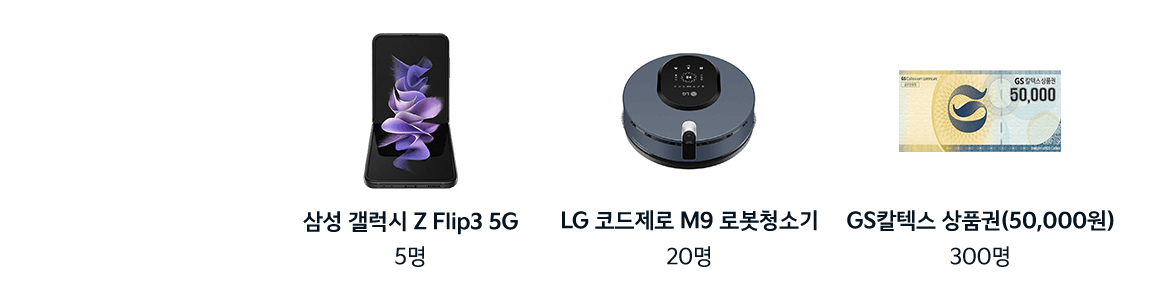
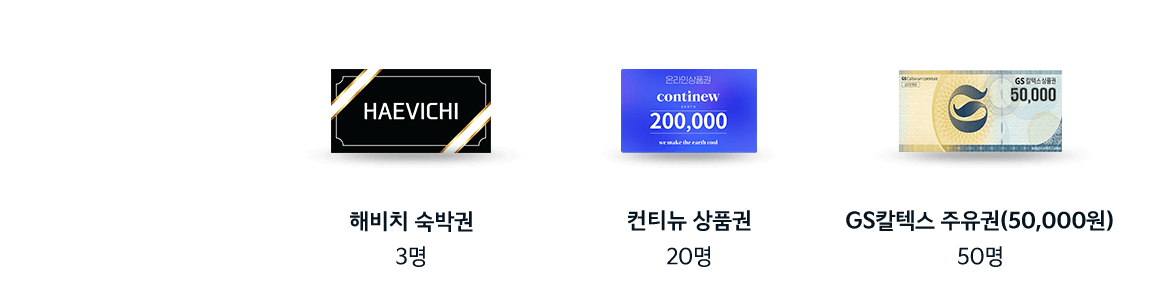
니로 2021.12.13수정건

diff --git a/views/html/index.html b/views/html/index.html
@@ -446,7 +446,8 @@
                     <span class="modal-prize-label fw700 fs24">즉석 당첨 경품 결과</span>
                     <h3 class="modal-hd-tit fc-white">축하합니다!</h3>
                     <figure class="modal-prize-gift"><img src="../../content/images/modal-prize-coffee2.png" alt="스타벅스 아메리카노"></figure>
-                    <p class="modal-prize-txt fc-indigo"><span class="fs32"><b>스타벅스 아메리카노 ICE(TALL)</b>에</span><br>당첨되었습니다.</p>
+                    <!-- 1213 label 수정 -->
+                    <p class="modal-prize-txt fc-indigo"><span class="fs32"><b>스타벅스 아메리카노 TALL</b>에</span><br>당첨되었습니다.</p>
                 </div>
                 <div class="modal-cont pt0 white">
                     <p class="form-tip fw300 fs18 fc-indigo txt-indent"><i class="mark">※</i>경품은 당첨 확인 후 MMS로 발송(10분 내외 소요) 됩니다.</p>
@@ -463,8 +464,10 @@
                     <p class="modal-hd-greet fs24 fc-white"><strong>김기아</strong>님 반갑습니다!</p>
                     <span class="modal-prize-label fw700 fs24">즉석 당첨 경품 결과</span>
                     <h3 class="modal-hd-tit fc-white">축하합니다!</h3>
-                    <figure class="modal-prize-gift"><img src="../../content/images/modal-prize-class101.png" alt="포카리스웨트에"></figure>
-                    <p class="modal-prize-txt fc-indigo"><span class="fs32"><b>클래스101 / 배민 플랫폼 이용권</b>에</span><br>당첨되었습니다.</p>
+                    <!-- 1213 label 수정 -->
+                    <figure class="modal-prize-gift"><img src="../../content/images/modal-prize-baguette.png" alt="파리바게뜨 상품권 (20,000원)"></figure>
+                    <!-- 1213 label 수정 -->
+                    <p class="modal-prize-txt fc-indigo"><span class="fs32"><b>파리바게뜨 상품권(20,000원)</b>에</span><br>당첨되었습니다.</p>
                     <!-- <p class="modal-prize-txt fc-indigo"><span class="fs32"><b>포카리스웨트</b>에</span><br>당첨되었습니다.</p> -->
                 </div>
                 <div class="modal-cont pt0 white">
@@ -487,7 +490,8 @@
                 <div class="modal-cont white pl0 pr0">
                     <h4 class="modal-cont-tit fw400 fs34 fc-indigo"><b><span class="txt-linebreak__mo">이벤트를 한 번이라도</span> 참여한 분</b>에겐<br><span class="txt-linebreak__mo">추첨을 통해</span> <b>스페셜 리워드</b>를 증정합니다!</h4>
                     <figure><img src="../../content/images/modal-prize-rewards-preview.png" alt="스페셜 리워드"></figure>
-                    <p class="modal-cont-txt fs24 fc-brown txt-cnt"><span class="txt-linebreak__mo">스페셜 리워드는</span> 8월 3일(화) 이벤트 종료 후,<br>8월 중 추첨 및 일괄 배송 예정입니다.</p>
+                    <!-- 1213 label 수정 -->
+                    <p class="modal-cont-txt fs24 fc-brown txt-cnt"><span class="txt-linebreak__mo">스페셜 리워드는</span> 이벤트 종료 후,<br>추첨 및 일괄 배송 예정입니다.</p>
                 </div>
             </div> <!-- //아쉽네요! -->
         </div> <!-- //즉석 당첨 경품 결과 모달 -->
@@ -516,7 +520,8 @@
                                     <span class="label fs24 no-gift">당첨 내역이 없습니다.</span>
                                     <div class="gift-box">
                                         <img src="../../content/images/modal-prize-image-01.png" alt="스타벅스 아메리카노 HOT(TALL)">
-                                        <span class="fs24">스타벅스 아메리카노<br />HOT(TALL)</span>
+                                        <!-- 1213 label 수정 -->
+                                        <span class="fs24">스타벅스<br/> 아메리카노 TALL</span>
                                     </div>
                                 </div>
                             </a>
@@ -531,8 +536,10 @@
                                     <span class="label fs24 no-check">응모 내역이 없습니다.</span>
                                     <span class="label fs24 no-gift">당첨 내역이 없습니다.</span>
                                     <div class="gift-box">
-                                        <img src="../../content/images/modal-prize-image-02.png" alt="스타벅스 아메리카노 HOT(TALL)">
-                                        <span class="fs24">클래스101 / 배민 플랫폼<br />이용권</span>
+                                        <!-- 1213 label 수정 -->
+                                        <img src="../../content/images/modal-prize-image-02.png" alt="파리바게뜨 상품권 (20,000)">
+                                        <!-- 1213 label 수정 -->
+                                        <span class="fs24">파리바게뜨 상품권<br/>(20,000원)</span>
                                     </div>
                                 </div>
                             </a>
@@ -597,7 +604,8 @@
                         <div class="modal-history-reward-wrap__win">
                             <span class="modal-history-reward-label fs20">스페셜 리워드 당첨 내역</span>
                             <h4 class="modal-history-reward-tit">축하합니다!</h4>
-                            <figure class="modal-history-reward"><img src="../../content/images/modal-reward-zflip3.png" alt="삼성 갤럭시 Z Flip3 5G"></figure>
+                            <!-- 1213 label 수정 -->
+                            <figure class="modal-history-reward"><img src="../../content/images/modal-reward-haevichi.png" alt="해비치 숙박권"></figure>
                         </div>
                     </div>
                     <div class="modal-history-cont" id="modalHistoryMsn2">
@@ -611,7 +619,8 @@
                         <div class="modal-history-reward-wrap__win">
                             <span class="modal-history-reward-label fs20">스페셜 리워드 당첨 내역</span>
                             <h4 class="modal-history-reward-tit">축하합니다!</h4>
-                            <figure class="modal-history-reward"><img src="../../content/images/modal-reward-m9.png" alt="LG 코드제로 M9 로봇청소기"></figure>
+                            <!-- 1213 label 수정 -->
+                            <figure class="modal-history-reward"><img src="../../content/images/modal-reward-continew.png" alt="컨티뉴 상품권"></figure>
                         </div>
                     </div>
                     <div class="modal-history-cont" id="modalHistoryMsn3">
@@ -625,7 +634,8 @@
                         <div class="modal-history-reward-wrap__win">
                             <span class="modal-history-reward-label fs20">스페셜 리워드 당첨 내역</span>
                             <h4 class="modal-history-reward-tit">축하합니다!</h4>
-                            <figure class="modal-history-reward"><img src="../../content/images/modal-reward-gs.png" alt="GS칼텍스 상품권 50,000원"></figure>
+                            <!-- 1213 label 수정 -->
+                            <figure class="modal-history-reward"><img src="../../content/images/modal-reward-gs.png" alt="GS칼텍스 주유권 50,000원"></figure>
                         </div>
                     </div>
                     <div class="modal-history-cont" id="modalHistoryMsn4">

diff --git a/views/html/privacy.html b/views/html/privacy.html
@@ -43,7 +43,8 @@
                 <dl class="policy-wrap">
                     <dt class="policy-hd-tit fs30">0. 총칙</dt>
                     <dd>
-                        <p class="policy-txt fs20">“개인정보”란 생존하는 개인에 관한 정보로서 당해 정보에 포함되어 있는 성명, 주민등록번호 등의 사항에 의하여 당해 개인을 식별할 수 있는 정보(당해 정보만으로는 특정 개인을 식별할 수 없더라도 다른 정보와 용이하게 결합하여 식별할 수 있는 것을 포함)를 말합니다.<br><br>회사는 본 개인정보처리방침을 니로 Preview이벤트 홈페이지(www.kia-niro.com)의 첫 화면에 공개함으로써 이용자께서 언제나 용이하게 보실 수 있도록 조치하고 있습니다.<br><br>회사는 개인정보처리방침의 지속적인 개선을 위하여 개인정보처리방침을 개정하는데 필요한 절차를 정하고 있습니다. 그리고 개인정보처리방침을 개정하는 경우 버전번호 등을 부여하여 개정된 사항을 쉽게 알아볼 수 있도록 하고 있습니다.<br><br>본 방침은 2021년 12월 07일부터 시행되며, 이를 개정하는 경우 웹사이트 공지사항(또는 서면·이메일·전화·SMS 등의 방법으로 개별공지)을 통하여 공지하겠습니다.</p>
+                        <!-- 1213 label 수정 -->
+                        <p class="policy-txt fs20">“개인정보”란 생존하는 개인에 관한 정보로서 당해 정보에 포함되어 있는 성명, 주민등록번호 등의 사항에 의하여 당해 개인을 식별할 수 있는 정보(당해 정보만으로는 특정 개인을 식별할 수 없더라도 다른 정보와 용이하게 결합하여 식별할 수 있는 것을 포함)를 말합니다.<br><br>회사는 본 개인정보처리방침을 니로 Preview이벤트 홈페이지(www.kia-niro.com)의 첫 화면에 공개함으로써 이용자께서 언제나 용이하게 보실 수 있도록 조치하고 있습니다.<br><br>회사는 개인정보처리방침의 지속적인 개선을 위하여 개인정보처리방침을 개정하는데 필요한 절차를 정하고 있습니다. 그리고 개인정보처리방침을 개정하는 경우 버전번호 등을 부여하여 개정된 사항을 쉽게 알아볼 수 있도록 하고 있습니다.<br><br>본 방침은 2021년 12월 14일부터 시행되며, 이를 개정하는 경우 웹사이트 공지사항(또는 서면·이메일·전화·SMS 등의 방법으로 개별공지)을 통하여 공지하겠습니다.</p>
                     </dd>
                 </dl>
                 <dl class="policy-wrap">
@@ -136,7 +137,8 @@
                     </dd>
                 </dl>
                 <div class="policy-wrap">
-                    <p class="policy-txt fs20">개인정보처리방침 버전번호 : v1.0<br>개인정보처리방침 시행일자 : 2021년 06월 16일</p>
+                    <!-- 1213 label 수정 -->
+                    <p class="policy-txt fs20">개인정보처리방침 버전번호 : v1.0<br>개인정보처리방침 시행일자 : 2021년 12월 14일</p>
                 </div>
             </div>
         </article>
